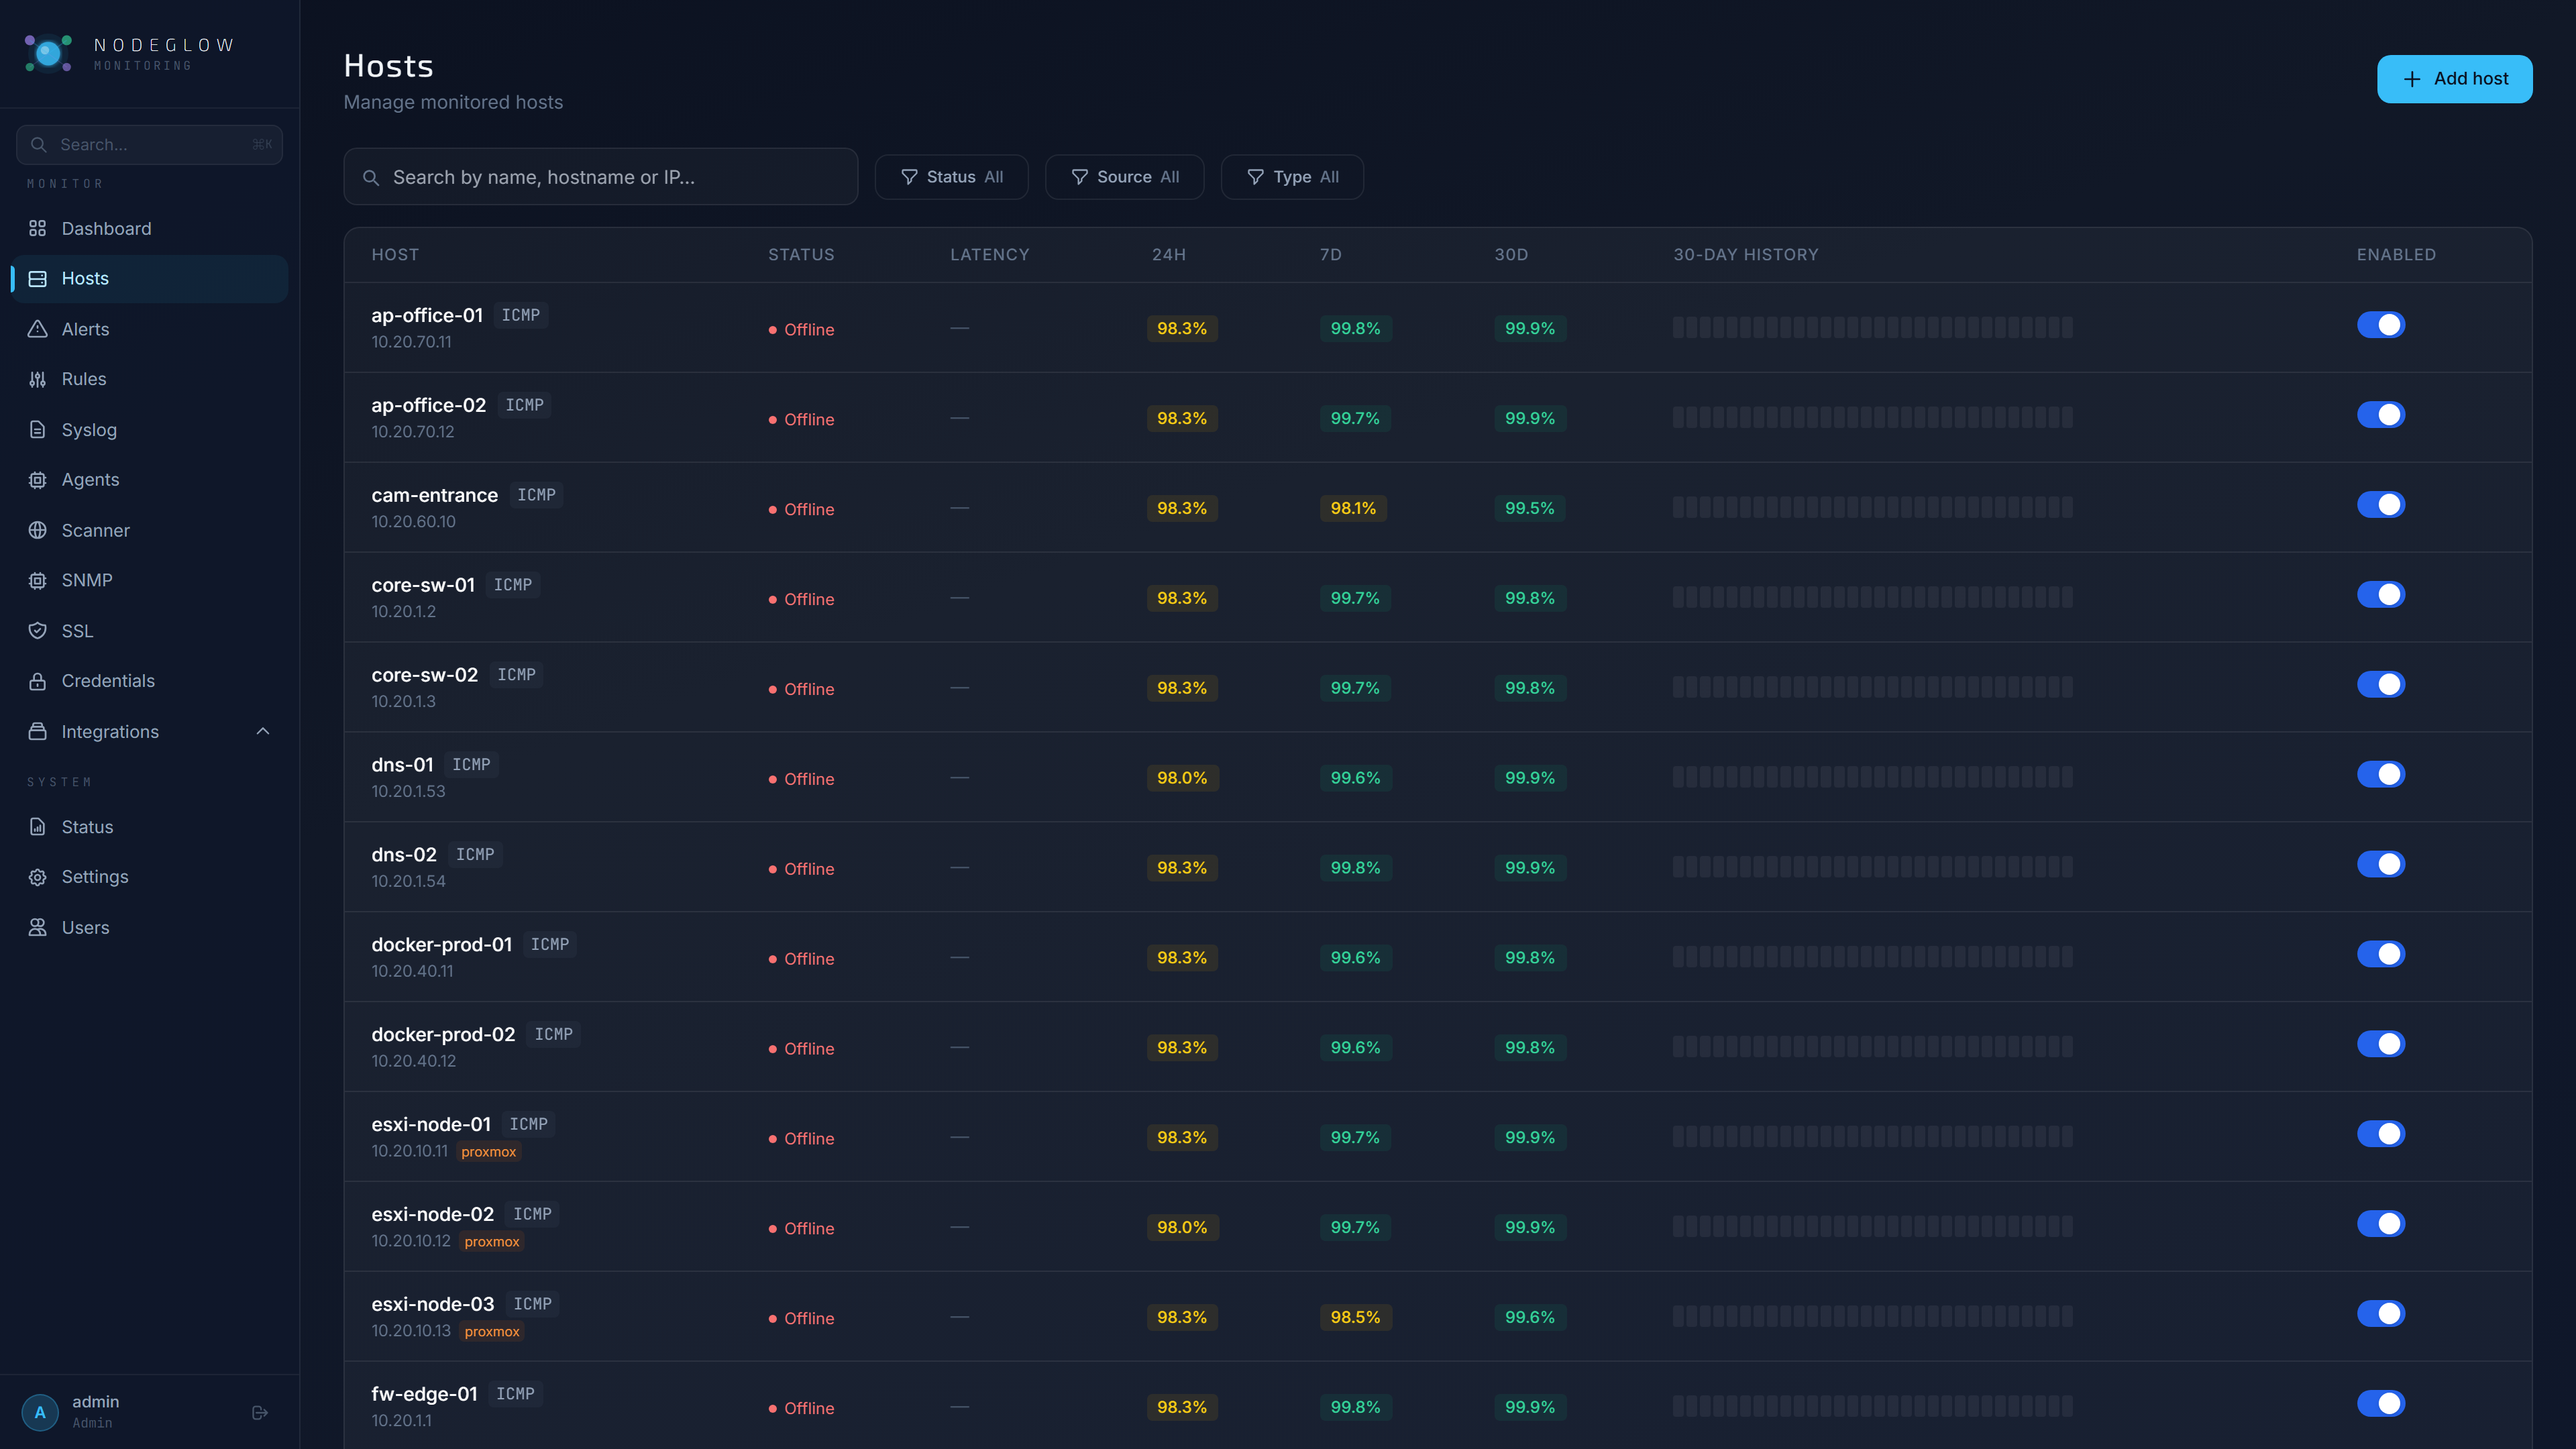
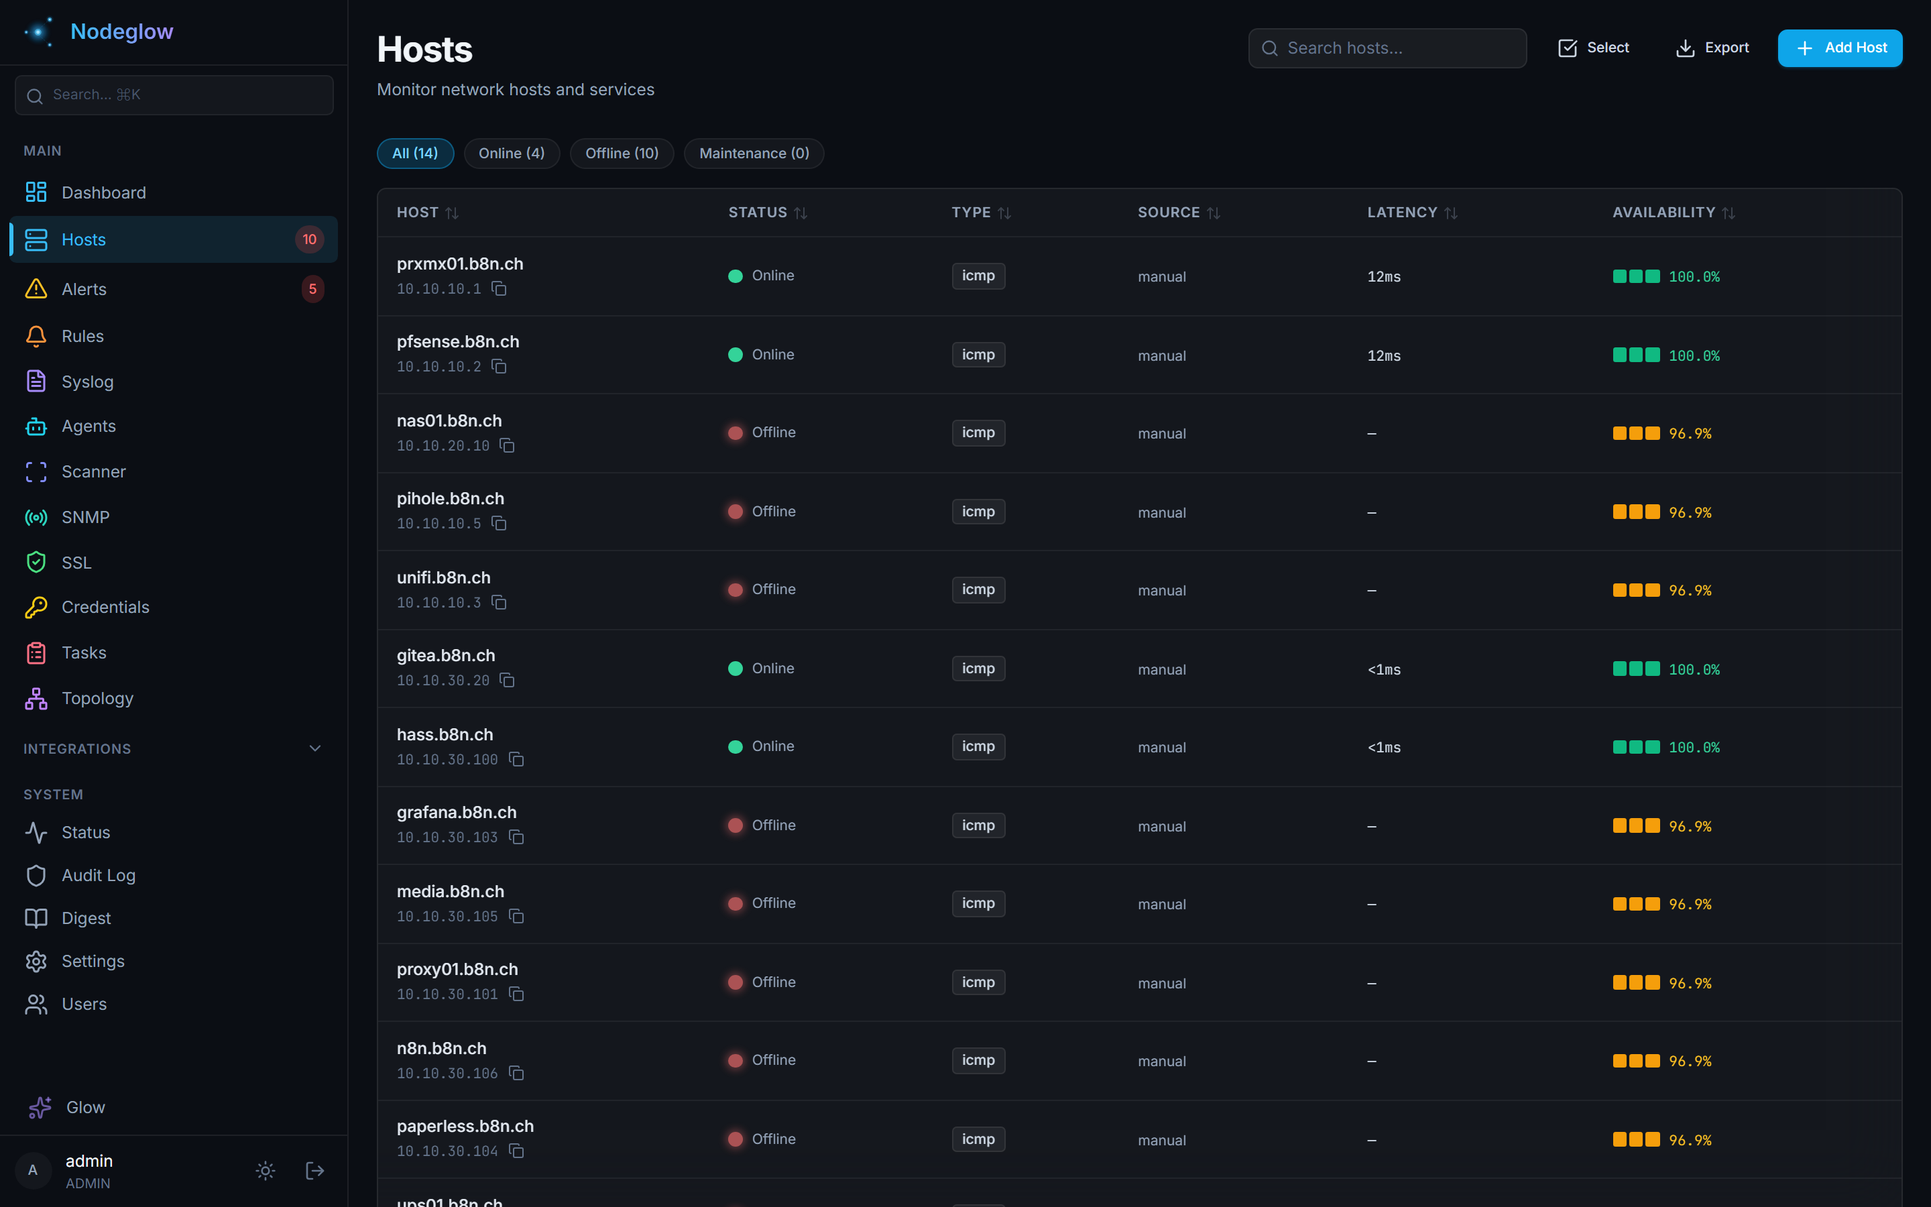
docs: update README screenshots with current UI
Replace outdated screenshots with fresh captures showing:
- Dashboard with 3D gravity well visualization
- Hosts list with availability bars
- Host detail with uptime and latency charts
- Syslog dashboard with severity donut and rate charts
- Syslog messages with severity badges
- Alerts with correlation engine incidents

diff --git a/README.md b/README.md
@@ -10,9 +10,13 @@ A self-hosted infrastructure monitoring platform with **log intelligence**, **in
 |---|---|
 | ![Dashboard](docs/screenshots/dashboard.png) | ![Hosts](docs/screenshots/hosts.png) |
 
-| Host Detail | Incidents |
+| Host Detail | Syslog Dashboard |
 |---|---|
-| ![Host Detail](docs/screenshots/host-detail.png) | ![Incidents](docs/screenshots/incidents.png) |
+| ![Host Detail](docs/screenshots/host-detail.png) | ![Syslog Dashboard](docs/screenshots/syslog-dashboard.png) |
+
+| Syslog Messages | Alerts |
+|---|---|
+| ![Syslog](docs/screenshots/syslog.png) | ![Alerts](docs/screenshots/alerts.png) |
 
 ---
 
